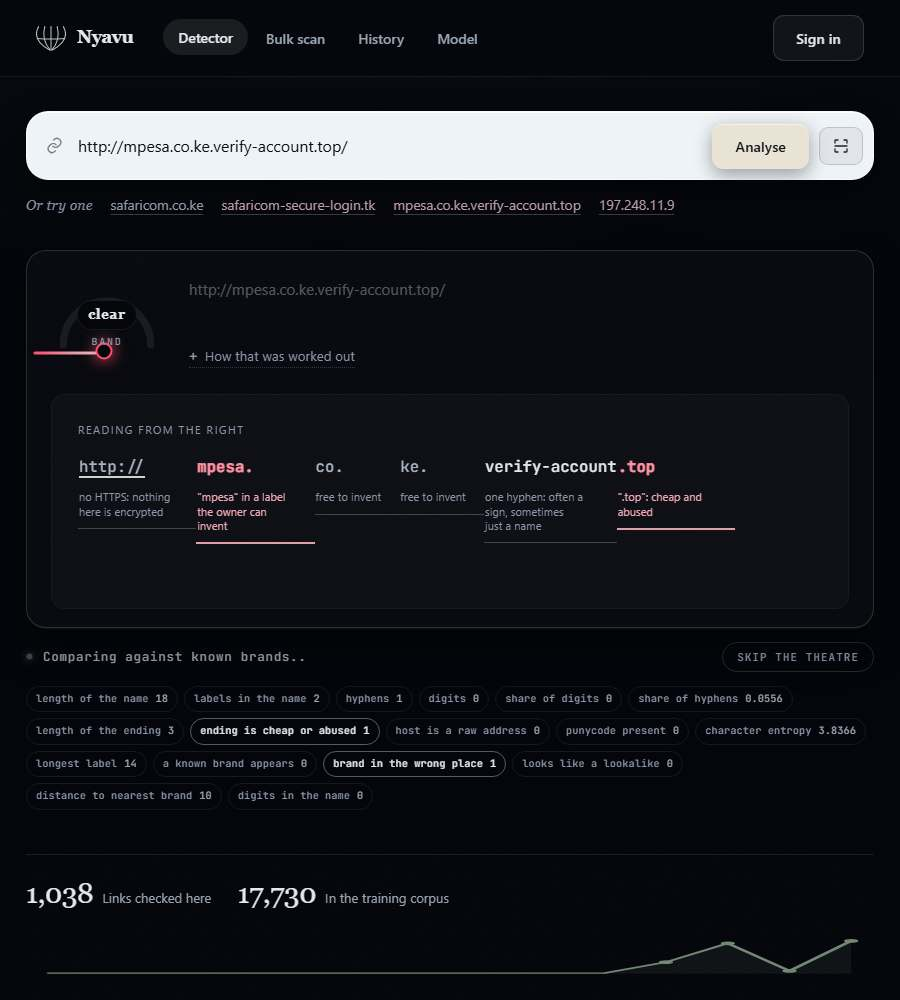
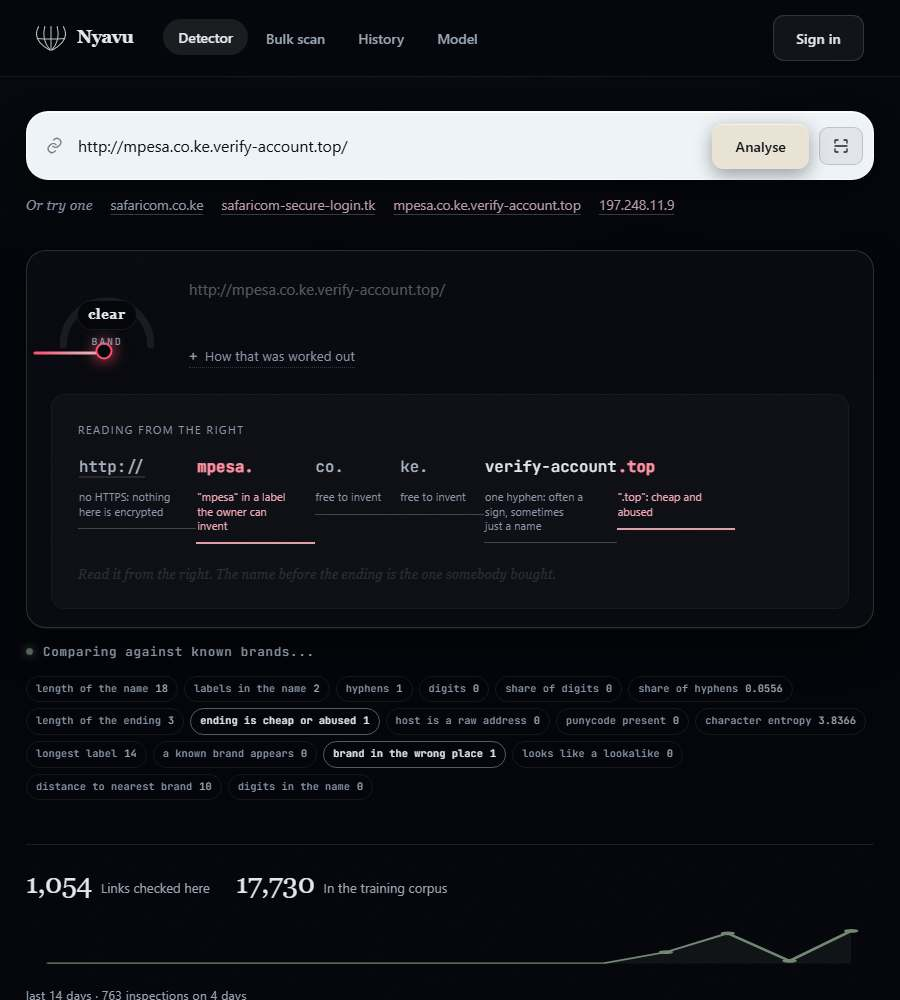
The examination cannot be skipped
The skip control is gone, with its handler and the finish-jump function, so the examination is
the only path from a click to a verdict. If the answer is worth reading, it is worth watching
arrive.

Removing the code caught a mistake of mine: an earlier patch meant for the needle's colour had
matched the first of two identical lines, which lived in the skip path rather than in the sweep.
Deleting the dead path would have silently reverted the colour fix, so the tone is now set where
the needle actually animates, following the value it is passing rather than the value it will
reach.

Verified without the control: no 'Skip the theatre' anywhere on the page, the phase line stands
alone, the dial reads clear then concern, the verdict lands at eleven seconds, no console errors,
suite 17 of 17.

diff --git a/app/static/app.js b/app/static/app.js
@@ -172,44 +172,6 @@
   let sweepToken = 0;
 
 
-  /* Skip: jump the theatre to its end. The result is already known; the animation is
-     a presentation of it, never a delay in computing it. */
-  /* Skip: land on the finished state immediately, without the theatre. */
-  function finishNow() {
-    sweepToken++;
-    const card = document.querySelector(".result.pending");
-    if (!card) return;
-    const g = card.querySelector(".gauge");
-    const target = Number(g && g.dataset.target ? g.dataset.target : 0);
-    if (g) {
-      g.style.setProperty("--p", target);
-      g.style.setProperty("--tone", TONE_OF(t >= 1 ? target : value));
-    }
-    const ro = card.querySelector(".readout span");
-    if (ro) ro.textContent = BAND_WORD(target);
-    const cap = card.querySelector(".readout small");
-    if (cap) cap.textContent = "verdict";
-    const scene = card.querySelector(".fishing");
-    if (scene) scene.style.display = "none";
-    card.classList.remove("pending");
-    card.classList.remove("zooming");
-    ensureClose(card);
-    // the skip path must show the same verdict as the theatrical one
-    card.classList.add("verdict-shown");
-    normaliseCard(card);
-    const line = document.getElementById("thinking");
-    if (line && line.parentElement) line.parentElement.remove();
-    const strip = card.querySelector(".measures-strip");
-    if (strip) strip.remove();
-    const skip = document.getElementById("skipBtn");
-    if (skip) skip.remove();
-  }
-
-
-  document.addEventListener("click", (event) => {
-    if (event.target && event.target.id === "skipBtn") finishNow();
-  });
-
   /* The dial starts almost still, accelerates, becomes frantic, then commits.
      Seven seconds of it. Colour follows the band the needle is passing through,
      so the dial reads as undecided while it hunts.
@@ -709,7 +671,8 @@
         value = Math.max(0, Math.min(100, base + swing));
       }
       g.style.setProperty("--p", t >= 1 ? String(target) : value.toFixed(2));
-      g.style.setProperty("--tone", TONE_OF(target));
+      // the colour follows the value the needle is passing, not the value it will reach
+      g.style.setProperty("--tone", TONE_OF(t >= 1 ? target : value));
       if (readout) readout.textContent = BAND_WORD(value);
       if (t >= 1) {
         if (readout) readout.textContent = BAND_WORD(target);
@@ -886,7 +849,6 @@
       </div>
       <div class="thinking-row">
         <p class="thinking" id="thinking"><span class="dot"></span><span class="phase">Reading the address</span></p>
-        <button type="button" class="skip" id="skipBtn">Skip the theatre</button>
       </div>
       ${measureStrip(r.features)}
       <h3 class="block-title">${r.risk === "low"
